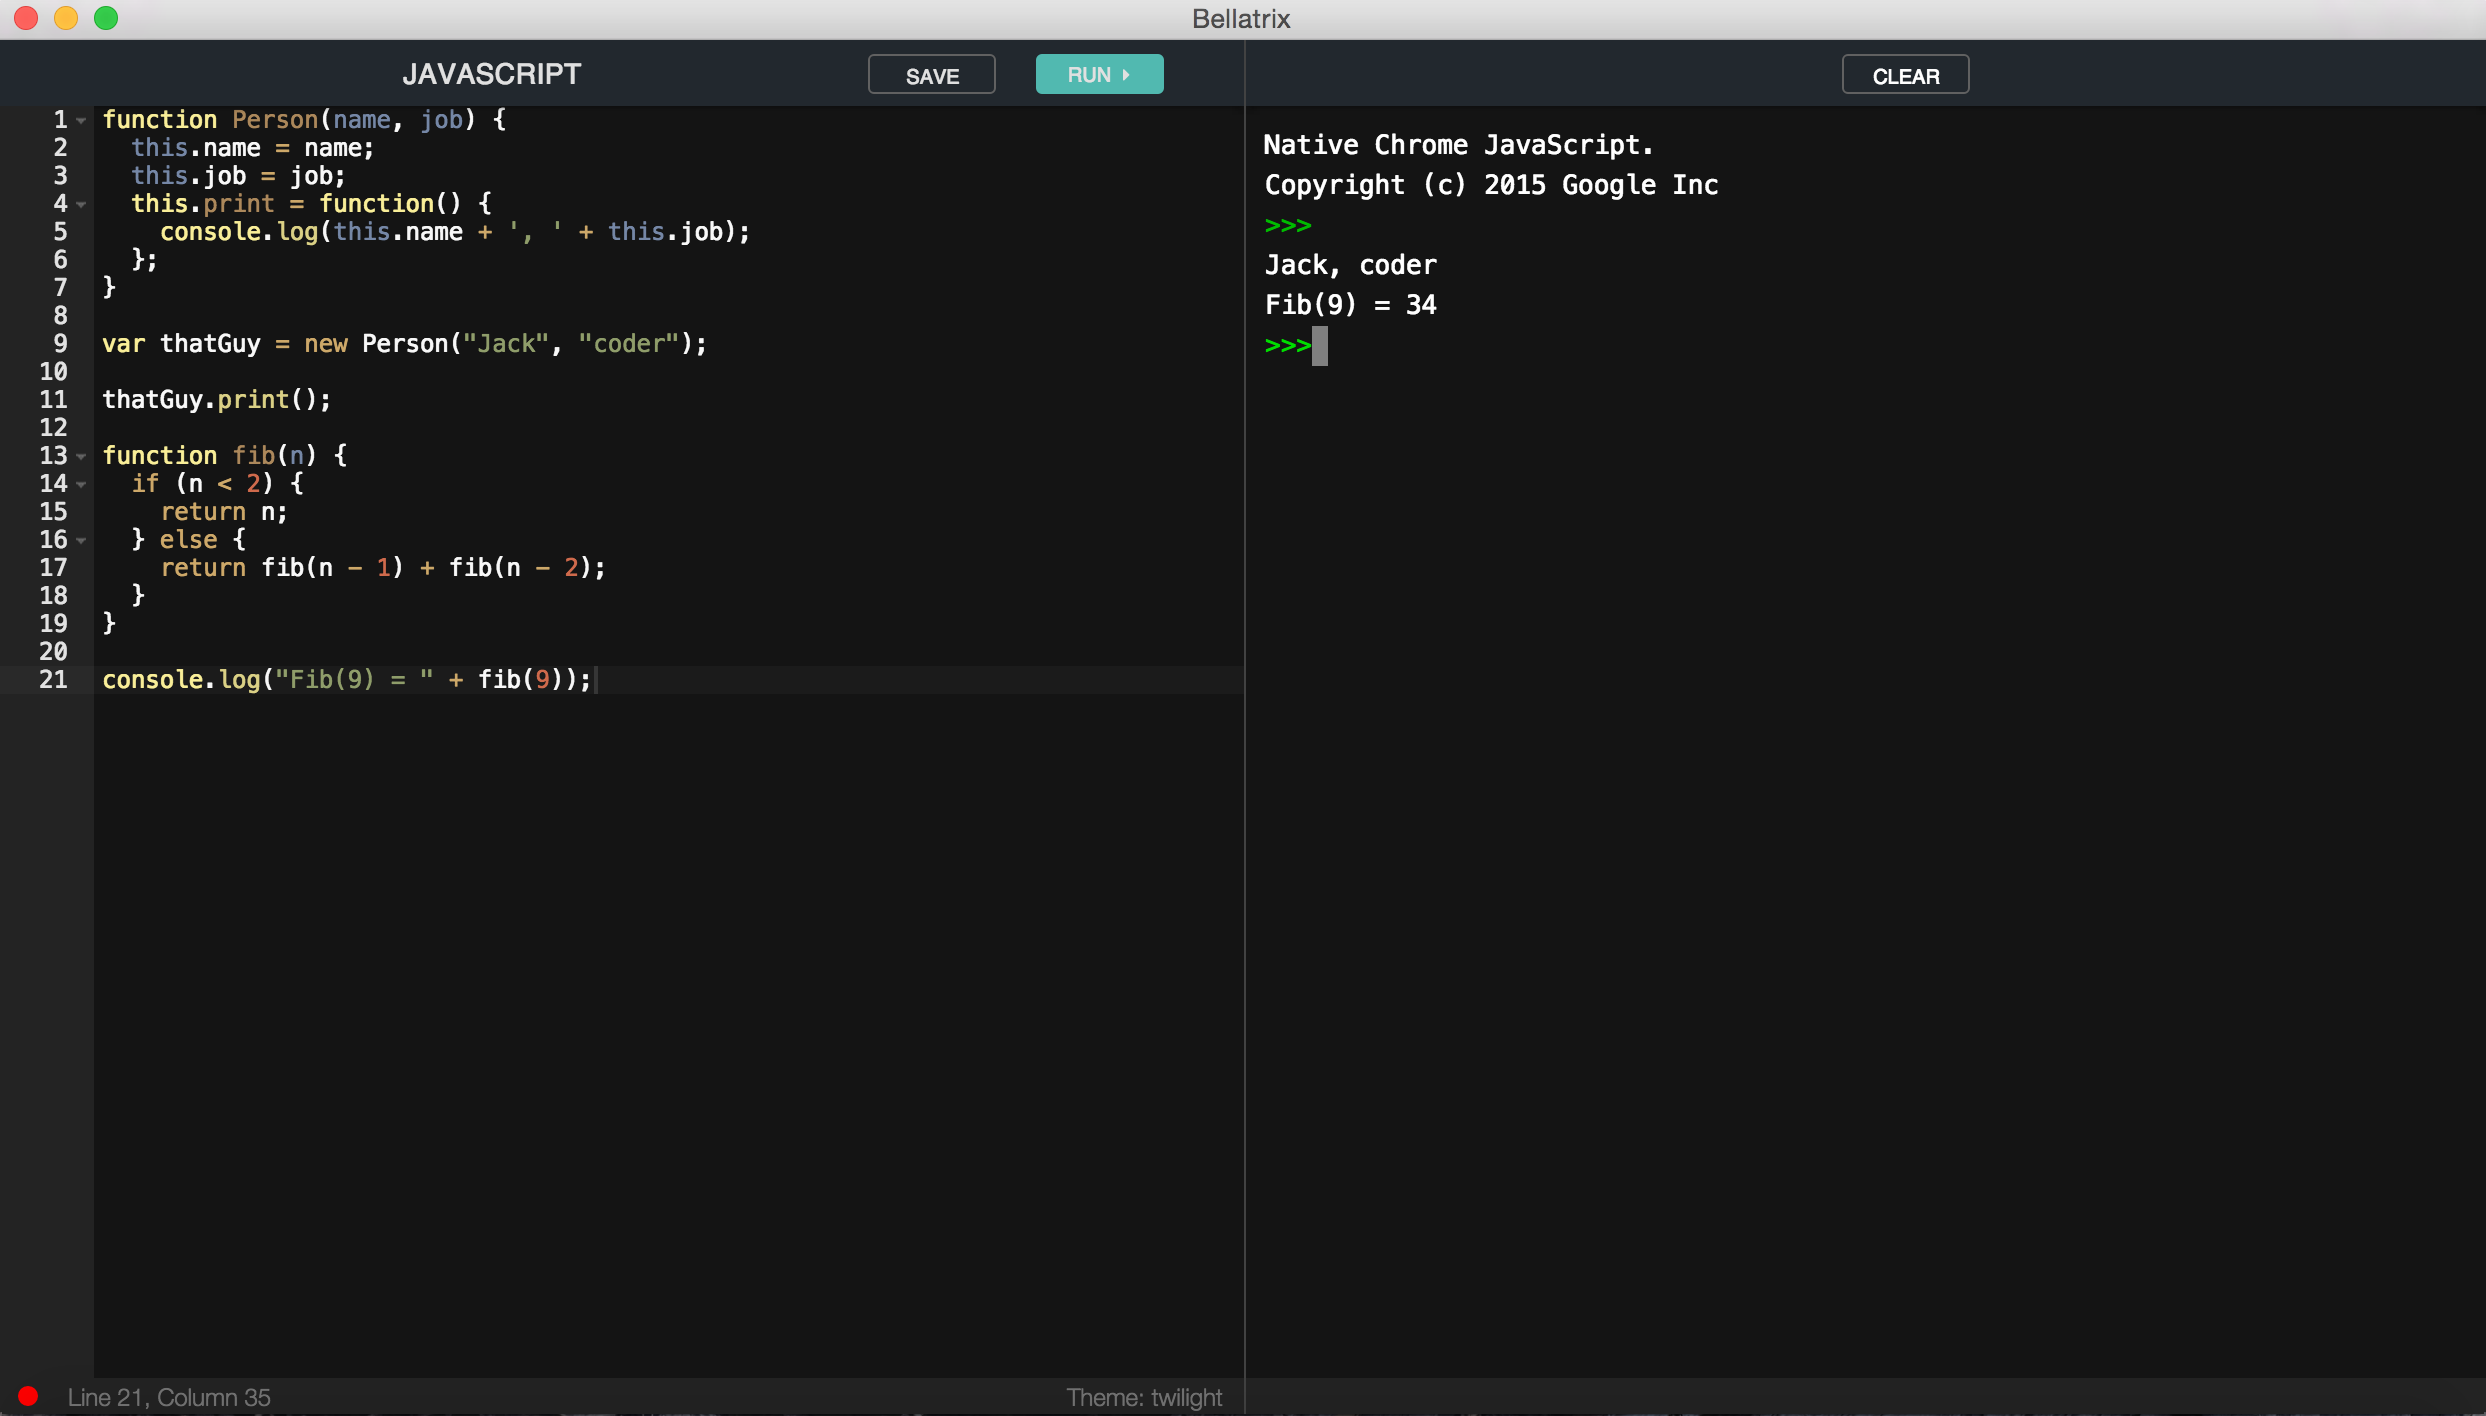
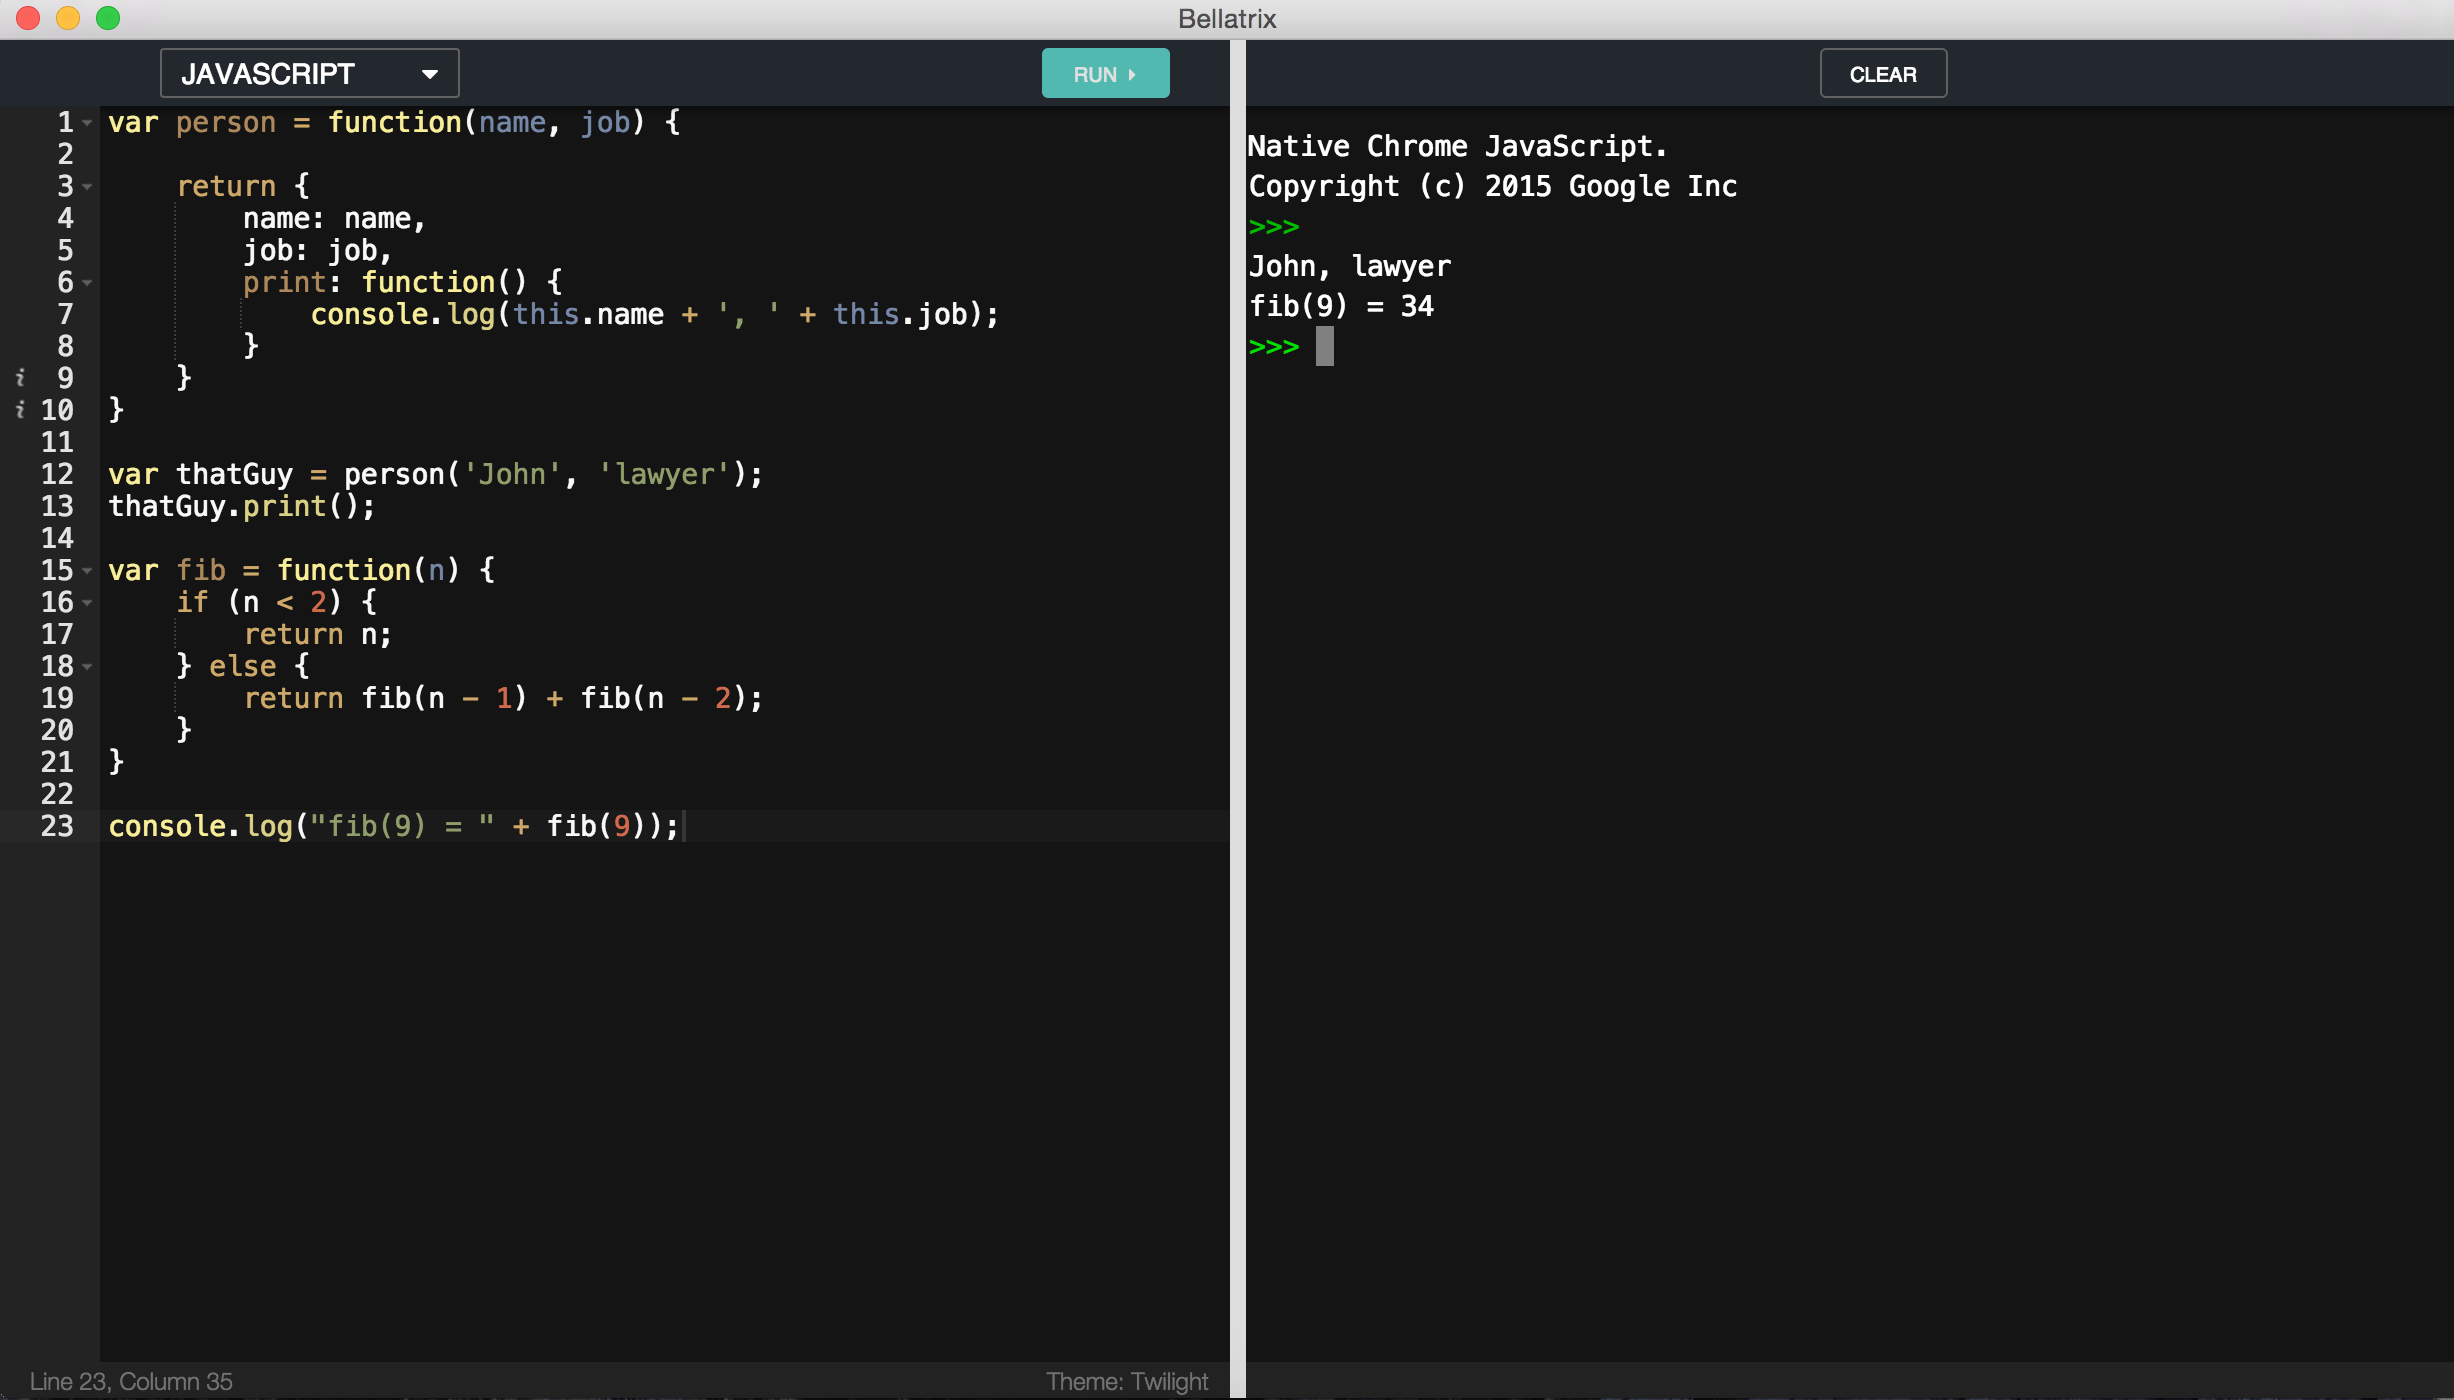
change the frontpage screenshot

diff --git a/app/js/app.js b/app/js/app.js
@@ -13,7 +13,9 @@ import EditorContainer from './containers/EditorContainer'
 
 class Bellatrix extends React.Component {
 
-  constructor() {
+  constructor(props) {
+    super(props)
+
     this.state = {
       theme: 'twilight',
       language: 'javascript',
